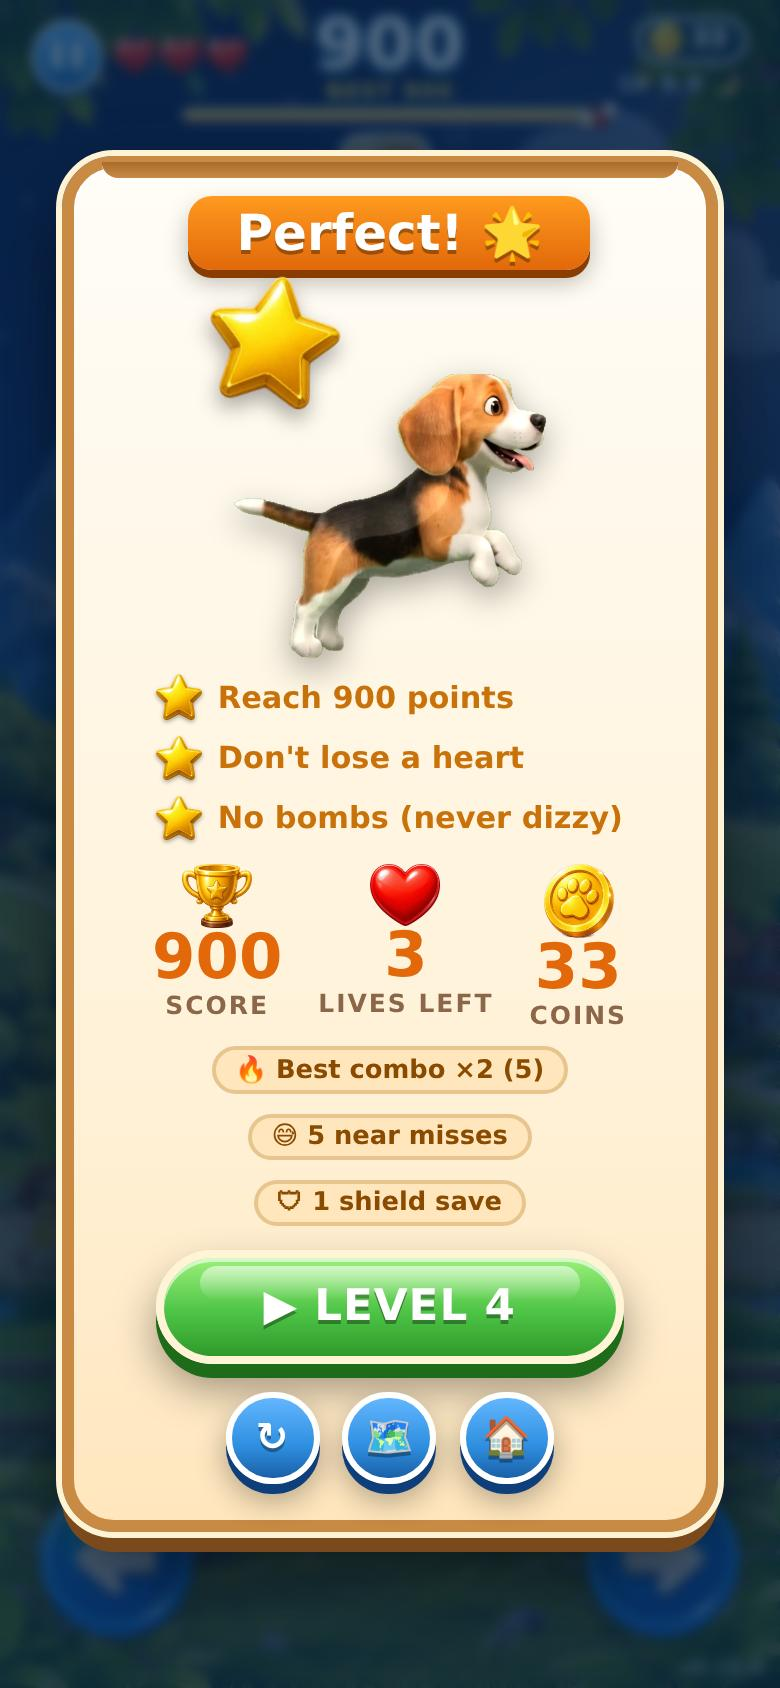
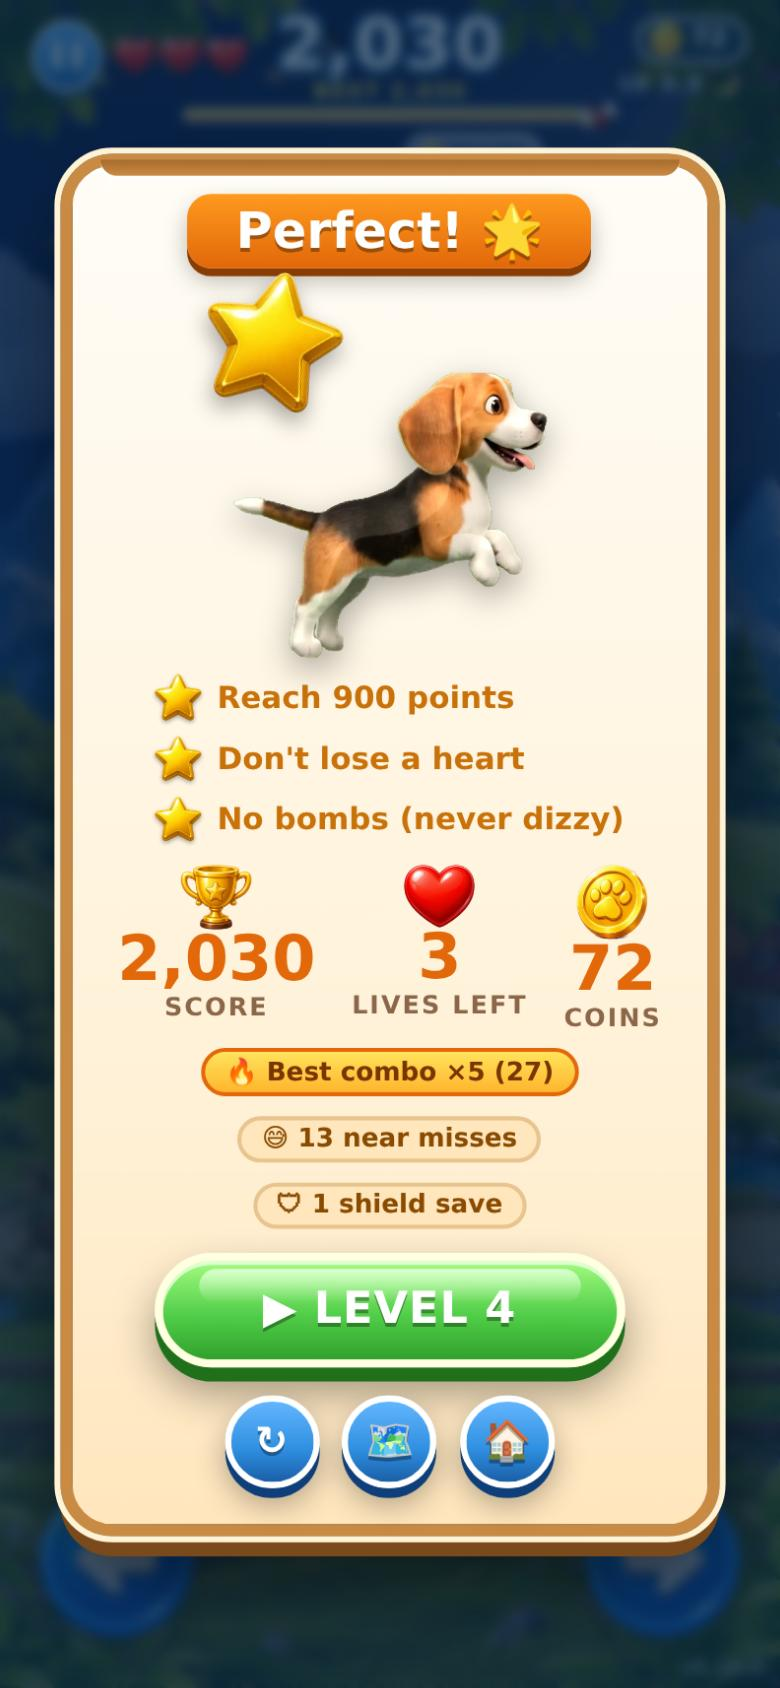
v0.16.1 — fix: carried score no longer shortens later levels; adaptive render quality (perf tiers), HUD writes only on change, cached vignette

Changed region(s): [[0.0615, 0.0, 0.9538, 0.9242], [0.6154, 0.2156, 0.7077, 0.2773]]

diff --git a/src/game/background.js b/src/game/background.js
@@ -13,7 +13,8 @@
 const BG = (() => {
   const canvas = document.getElementById('bg');
   const ctx = canvas.getContext('2d');
-  const DPR = Math.min(window.devicePixelRatio || 1, 2);
+  const DPR_CAP = [1, 1.5, 2];                                      // per quality tier (Perf)
+  let DPR = Math.min(window.devicePixelRatio || 1, DPR_CAP[Perf.tier]);
 
   const THEMES = {
     meadow: {
@@ -76,6 +77,7 @@ const BG = (() => {
   const clouds = [], leaves = [];
 
   function resize() {
+    DPR = Math.min(window.devicePixelRatio || 1, DPR_CAP[Perf.tier]);
     const r = canvas.getBoundingClientRect();
     W = Math.round(r.width); H = Math.round(r.height);
     canvas.width = W * DPR; canvas.height = H * DPR;
@@ -131,6 +133,7 @@ const BG = (() => {
   const WATER = { ALPHA: .55, SPEED: .05, GLINTS: 16 };
   const wc = document.createElement('canvas'), wctx = wc.getContext('2d');
   let glints = null;
+  const vig = { k: '', g: null };                                   // cached vignette gradient
   function drawWater(L, dx, dy, t) {
     const mask = img(L.water); if (!mask || BG._noWater) return;
     const im = img(L.key), over = (L.width || 1) * (1.04 + .12 * L.depth), w = W * over, h = w * im.height / im.width;
@@ -142,7 +145,7 @@ const BG = (() => {
       mask._bb = { x: minx / c.width, y: miny / c.height, w: (maxx - minx) / c.width, h: (maxy - miny) / c.height }; }
     const bb = mask._bb, bx = x0 + bb.x * w, by = y0 + bb.y * h, bw = bb.w * w, bh = bb.h * h;
     if (bw < 4 || bh < 4) return;
-    const S = Math.min(2, DPR), cw = Math.ceil(bw * S), chh = Math.ceil(bh * S);
+    const S = Math.min(Perf.tier >= 2 ? 2 : 1, DPR), cw = Math.ceil(bw * S), chh = Math.ceil(bh * S);
     if (wc.width !== cw || wc.height !== chh) { wc.width = cw; wc.height = chh; }
     if (!glints) glints = Array.from({ length: WATER.GLINTS }, () => ({ x: Math.random(), y: Math.random(), ph: Math.random() * 6.28, sp: .6 + Math.random() * .8, s: .6 + Math.random() * .8 }));
     const g = wctx; g.setTransform(S, 0, 0, S, 0, 0); g.clearRect(0, 0, bw, bh);
@@ -228,18 +231,19 @@ const BG = (() => {
     let birdsDrawn = false;
     for (const L of theme.layers) if (!L.front && !L.mid) {
       drawCover(img(L.key), -px * AMP * L.depth, -py * AMP * L.depth * .5, L.depth, L.bottom, L.width);
-      if (L.water) drawWater(L, -px * AMP * L.depth, -py * AMP * L.depth * .5, t);
+      if (L.water && Perf.tier > 0) drawWater(L, -px * AMP * L.depth, -py * AMP * L.depth * .5, t);
       if (ambient && !birdsDrawn && L.key === (theme.birdsAfter || 'mountains')) { Ambient.drawSky(ctx, t, px * AMP); birdsDrawn = true; }
     }
     if (ambient && !birdsDrawn) Ambient.drawSky(ctx, t, px * AMP);
 
+    if (Perf.tier > 0) {                                                       // god rays — the priciest blend on the screen, lite tier skips them
     ctx.save(); ctx.globalCompositeOperation = 'screen'; ctx.globalAlpha = (.10 + Math.sin(t * .8) * .03) * TC.sunA * (TC.moon ? .4 : 1);
     for (let i = 0; i < 4; i++) {
       ctx.save(); ctx.translate(sx, sy); ctx.rotate(-.55 - i * .14 + Math.sin(t * .2 + i) * .03);
       const rg = ctx.createLinearGradient(0, 0, 0, H * 1.2); rg.addColorStop(0, '#fff'); rg.addColorStop(1, 'rgba(255,255,255,0)');
       ctx.fillStyle = rg; ctx.beginPath(); ctx.moveTo(-8, 0); ctx.lineTo(8, 0); ctx.lineTo(W * .16, H * 1.2); ctx.lineTo(-W * .16, H * 1.2); ctx.closePath(); ctx.fill(); ctx.restore();
     }
-    ctx.restore();
+    ctx.restore(); }
 
     for (const L of theme.layers) if (L.mid) drawCover(img(L.key), -px * AMP * L.depth, -py * AMP * L.depth * .5, L.depth, L.bottom, L.width);
     if (ambient) Ambient.drawRoad(ctx, t, px * AMP);
@@ -263,7 +267,7 @@ const BG = (() => {
     }
     // --- time-of-day grade: multiply tint (shadows go blue at night / grey in rain) + soft warm glow (evening) ---
     if (TC.tint[3] > .01) { ctx.save(); ctx.globalCompositeOperation = 'multiply'; ctx.fillStyle = `rgba(${TC.tint[0] | 0},${TC.tint[1] | 0},${TC.tint[2] | 0},${TC.tint[3].toFixed(3)})`; ctx.fillRect(0, 0, W, H); ctx.restore(); }
-    if (TC.glow[3] > .01) { ctx.save(); ctx.globalCompositeOperation = 'soft-light'; ctx.fillStyle = `rgba(${TC.glow[0] | 0},${TC.glow[1] | 0},${TC.glow[2] | 0},${TC.glow[3].toFixed(3)})`; ctx.fillRect(0, 0, W, H); ctx.restore(); }
+    if (TC.glow[3] > .01 && Perf.tier >= 2) { ctx.save(); ctx.globalCompositeOperation = 'soft-light'; ctx.fillStyle = `rgba(${TC.glow[0] | 0},${TC.glow[1] | 0},${TC.glow[2] | 0},${TC.glow[3].toFixed(3)})`; ctx.fillRect(0, 0, W, H); ctx.restore(); }
     if (TC.moonA > .02) {                                                     // a little lantern light around the puppy so he stays readable at night
       const lx = hooks.lightX != null ? hooks.lightX : W / 2, ly = H * CONFIG.PUPPY.GROUND_Y - H * .06;
       const lg = ctx.createRadialGradient(lx, ly, 0, lx, ly, W * .38); lg.addColorStop(0, `rgba(255,225,160,${(.22 * TC.moonA).toFixed(3)})`); lg.addColorStop(1, 'rgba(255,225,160,0)');
@@ -275,12 +279,13 @@ const BG = (() => {
       for (const d of rain) { d.y += d.v * dt; d.x += slant * dt * (d.v / H); if (d.y > H + 20) { d.y = -20 - Math.random() * 40; d.x = Math.random() * (W + 80) - 40; } ctx.moveTo(d.x, d.y); ctx.lineTo(d.x - slant * .03, d.y - d.l); }
       ctx.stroke(); ctx.restore();
     }
-    const v = ctx.createRadialGradient(W / 2, H / 2, H * .35, W / 2, H / 2, H * .85);
-    v.addColorStop(0, 'rgba(0,0,0,0)'); v.addColorStop(1, `rgba(10,30,60,${(.35 + TC.tint[3] * .25).toFixed(3)})`); ctx.fillStyle = v; ctx.fillRect(0, 0, W, H);
+    const va = (.35 + TC.tint[3] * .25).toFixed(2), vk = `${W}x${H}:${va}`;
+    if (vig.k !== vk) { const v = ctx.createRadialGradient(W / 2, H / 2, H * .35, W / 2, H / 2, H * .85); v.addColorStop(0, 'rgba(0,0,0,0)'); v.addColorStop(1, `rgba(10,30,60,${va})`); vig.k = vk; vig.g = v; }
+    ctx.fillStyle = vig.g; ctx.fillRect(0, 0, W, H);
   }
 
   return {
-    init() { resize(); initClouds(); window.addEventListener('resize', resize); enableTilt(); document.addEventListener('pointerdown', enableTilt, { once: true }); },
+    init() { resize(); initClouds(); window.addEventListener('resize', resize); Events.on('perf:tier', resize); enableTilt(); document.addEventListener('pointerdown', enableTilt, { once: true }); },
     draw, ctx,
     get W() { return W; }, get H() { return H; },
     setAmp(v) { amp = v; }, setTilt(v) { tiltEnabled = v; },

diff --git a/index.html b/index.html
@@ -5,7 +5,7 @@
 <meta name="viewport" content="width=device-width, initial-scale=1.0, maximum-scale=1.0, user-scalable=no, viewport-fit=cover">
 <meta name="theme-color" content="#2f8fe0">
 <title>BONK! — Catch. Dodge. Don't get bonked.</title>
-<link rel="stylesheet" href="styles/main.css?v=0.16.0">
+<link rel="stylesheet" href="styles/main.css?v=0.16.1">
 </head>
 <body>
 <div id="backdrop"></div>
@@ -161,39 +161,40 @@
 
 <!-- Load order = dependency order (plain <script>, no bundler). Layers: core → services → data → game → ui → scenes → app -->
 <!-- core: engine-agnostic plumbing -->
-<script src="src/core/config.js?v=0.16.0"></script>
-<script src="src/core/events.js?v=0.16.0"></script>
-<script src="src/core/dom.js?v=0.16.0"></script>
-<script src="src/core/assets.js?v=0.16.0"></script>
-<script src="src/core/input.js?v=0.16.0"></script>
+<script src="src/core/config.js?v=0.16.1"></script>
+<script src="src/core/events.js?v=0.16.1"></script>
+<script src="src/core/perf.js?v=0.16.1"></script>
+<script src="src/core/dom.js?v=0.16.1"></script>
+<script src="src/core/assets.js?v=0.16.1"></script>
+<script src="src/core/input.js?v=0.16.1"></script>
 <!-- services: persistence, economy, telemetry, backend -->
-<script src="src/services/flags.js?v=0.16.0"></script>
-<script src="src/services/analytics.js?v=0.16.0"></script>
-<script src="src/services/save.js?v=0.16.0"></script>
-<script src="src/services/wallet.js?v=0.16.0"></script>
-<script src="src/services/store.js?v=0.16.0"></script>
-<script src="src/services/leaderboard.js?v=0.16.0"></script>
+<script src="src/services/flags.js?v=0.16.1"></script>
+<script src="src/services/analytics.js?v=0.16.1"></script>
+<script src="src/services/save.js?v=0.16.1"></script>
+<script src="src/services/wallet.js?v=0.16.1"></script>
+<script src="src/services/store.js?v=0.16.1"></script>
+<script src="src/services/leaderboard.js?v=0.16.1"></script>
 <!-- audio -->
-<script src="src/audio/sfx.js?v=0.16.0"></script>
+<script src="src/audio/sfx.js?v=0.16.1"></script>
 <!-- data: catalogues + level loader -->
-<script src="src/data/items.js?v=0.16.0"></script>
-<script src="src/data/goals.js?v=0.16.0"></script>
-<script src="src/data/levels.js?v=0.16.0"></script>
+<script src="src/data/items.js?v=0.16.1"></script>
+<script src="src/data/goals.js?v=0.16.1"></script>
+<script src="src/data/levels.js?v=0.16.1"></script>
 <!-- game: simulation + rendering -->
-<script src="src/game/background.js?v=0.16.0"></script>
-<script src="src/game/ambient.js?v=0.16.0"></script>
-<script src="src/game/effects.js?v=0.16.0"></script>
-<script src="src/game/puppy.js?v=0.16.0"></script>
-<script src="src/game/mechanics.js?v=0.16.0"></script>
-<script src="src/game/spawner.js?v=0.16.0"></script>
-<script src="src/game/game.js?v=0.16.0"></script>
-<script src="src/game/ftue.js?v=0.16.0"></script>
+<script src="src/game/background.js?v=0.16.1"></script>
+<script src="src/game/ambient.js?v=0.16.1"></script>
+<script src="src/game/effects.js?v=0.16.1"></script>
+<script src="src/game/puppy.js?v=0.16.1"></script>
+<script src="src/game/mechanics.js?v=0.16.1"></script>
+<script src="src/game/spawner.js?v=0.16.1"></script>
+<script src="src/game/game.js?v=0.16.1"></script>
+<script src="src/game/ftue.js?v=0.16.1"></script>
 <!-- ui + scenes -->
-<script src="src/ui/hud.js?v=0.16.0"></script>
-<script src="src/ui/modals.js?v=0.16.0"></script>
-<script src="src/scenes/home.js?v=0.16.0"></script>
-<script src="src/scenes/play.js?v=0.16.0"></script>
+<script src="src/ui/hud.js?v=0.16.1"></script>
+<script src="src/ui/modals.js?v=0.16.1"></script>
+<script src="src/scenes/home.js?v=0.16.1"></script>
+<script src="src/scenes/play.js?v=0.16.1"></script>
 <!-- bootstrap -->
-<script src="src/app.js?v=0.16.0"></script>
+<script src="src/app.js?v=0.16.1"></script>
 </body>
 </html>

diff --git a/src/game/game.js b/src/game/game.js
@@ -13,7 +13,8 @@ const Game = (() => {
     const L = getLevel(levelIdx);
     return {
       level: L, levelIdx, time: 0,
-      score: carry ? carry.score : 0, coins: carry ? carry.coins : 0, bones: carry ? carry.bones : 0,
+      score: carry ? carry.score : 0, base: carry ? carry.score : 0,   // score = run total (best/leaderboard); base = what was carried in → level progress = score - base
+      coins: carry ? carry.coins : 0, bones: carry ? carry.bones : 0,
       lives: carry ? carry.lives : L.hearts, mult: 1, powers: { magnet: 0, star: 0, shield: 0 },
       combo: { n: 0, mult: 1, best: 0, bestMult: 1 }, nearMisses: 0, shieldSaves: 0, nearCd: 0,
       spawner: new Spawner(L), cleared: false, over: false, lastHit: null,
@@ -72,10 +73,10 @@ const Game = (() => {
     Mechanics.update(dt, S);
     S.spawner.update(dt, S.time, puppy, S.powers, onCatch, onMiss, onNear, onDodge);
     FX.update(dt);
-    hooks.onHUD && hooks.onHUD(S);
-    if (!S.cleared && S.score >= S.level.target) { S.cleared = true; onLevelClear(); }
+    const ls = S.score - S.base;                                   // this level's own score — carried score never shortens a level
+    if (!S.cleared && ls >= S.level.target) { S.cleared = true; onLevelClear(); }
     else if (!S.cleared) {
-      const n = S.level.stages.length, u = S.score / S.level.target * n, want = Math.min(n - 1, Math.floor(u)); if (want > S.stage) advanceStage(want);
+      const n = S.level.stages.length, u = ls / S.level.target * n, want = Math.min(n - 1, Math.floor(u)); if (want > S.stage) advanceStage(want);
       // live weather: during act i the light drifts from act i's grade toward act i+1's (starts drifting after 35 % of the act)
       const st = S.level.stages, i = S.stage, k = Math.max(0, (u - i - .35) / .65);
       BG.setTimeBlend(st[i].time, st[Math.min(n - 1, i + 1)].time, i < n - 1 ? k : 0);
@@ -154,7 +155,7 @@ const Game = (() => {
   function endRun(result) {
     if (!S || S.ended) return; S.ended = true;
     const duration = Math.round((performance.now() - S.startedAt) / 1000);
-    Analytics.track('level_end', { id: S.level.id, result, score: S.score, stars: S.stars || Goals.stars(S), starsN: (S.stars || []).filter(Boolean).length, coins: S.coins, bones: S.bones, duration, heartsLost: S.heartsLost || 0, comboBest: S.combo.best, comboMult: S.combo.bestMult, nearMisses: S.nearMisses, shieldSaves: S.shieldSaves });
+    Analytics.track('level_end', { id: S.level.id, result, score: S.score, stars: S.stars || Goals.stars(S), starsN: (S.stars || []).filter(Boolean).length, coins: S.coins, bones: S.bones, duration, heartsLost: S.heartsLost || 0, comboBest: S.combo.best, comboMult: S.combo.bestMult, nearMisses: S.nearMisses, shieldSaves: S.shieldSaves, q: Perf.tier });
     Store.bumpStat(result === 'win' ? 'wins' : result === 'lose' ? 'losses' : 'quits'); Store.bumpStat('bones', S.bones); Store.bumpStat('playSec', duration);
   }
 
@@ -167,5 +168,7 @@ const Game = (() => {
     resume() { paused = false; if (cdResume) { const r = cdResume; cdResume = null; r(); } },
     stop() { if (S && !S.ended && !S.over) { Analytics.track('quit', { id: S.level.id, at: Math.round(S.time), score: S.score }); endRun('quit'); } running = false; paused = false; S = null; clearTimeout(cdTimer); cdTimer = null; cdResume = null; FX.clear(); hooks.onCountdown && hooks.onCountdown(null); },
     get active() { return running; }, get inProgress() { return !!S && !S.over; }, get paused() { return paused; }, get state() { return S; }, get puppy() { return puppy; }, stageIcon, stageLabel,
+    /** 0..1 progress of the current level (per-level score / target). */
+    progress(S) { return S.cleared ? 1 : Math.min(1, (S.score - S.base) / S.level.target); },
   };
 })();

diff --git a/src/ui/hud.js b/src/ui/hud.js
@@ -9,7 +9,7 @@ const HUD = (() => {
   let comboKey = '';
   let zones = null, zoneW = 0;
   let goalState = '';
-  let lastPower = '', lastScore = -1;
+  let lastPower = '', lastScore = -1, lastCoins = -1, lastProg = '', lastLevel = '';
 
   function hearts(S, animLost) {
     el.hearts.innerHTML = '';
@@ -19,11 +19,11 @@ const HUD = (() => {
     }
   }
   function update(S) {
-    el.score.textContent = S.score.toLocaleString(); el.coins.textContent = S.coins.toLocaleString();
-    el.best.textContent = Math.max(S.score, Store.best()).toLocaleString();
-    el.level.textContent = `LV ${Game.stageLabel(S)} ${Game.stageIcon(S)}`;
-    if (S.score !== lastScore) { lastScore = S.score; restartAnimation(el.score, 'bump'); }
-    el.progress.style.width = (S.cleared ? 100 : Math.min(100, S.score / S.level.target * 100)) + '%';
+    // DOM writes only on change — this runs every rendered frame and layout/style work is what stutters low-end phones
+    if (S.score !== lastScore) { lastScore = S.score; el.score.textContent = S.score.toLocaleString(); el.best.textContent = Math.max(S.score, Store.best()).toLocaleString(); restartAnimation(el.score, 'bump'); }
+    if (S.coins !== lastCoins) { lastCoins = S.coins; el.coins.textContent = S.coins.toLocaleString(); }
+    const lv = `LV ${Game.stageLabel(S)} ${Game.stageIcon(S)}`; if (lv !== lastLevel) { lastLevel = lv; el.level.textContent = lv; }
+    const pw = (Game.progress(S) * 100).toFixed(1) + '%'; if (pw !== lastProg) { lastProg = pw; el.progress.style.width = pw; }
     let html = '';
     for (const k in S.powers) if (S.powers[k] > 0) { const P = POWERS[k];
       html += k === 'shield' ? `<div class="power shield"><img src="${Assets.url('shield')}">🛡</div>`
@@ -61,7 +61,7 @@ const HUD = (() => {
   }
   function reset(S) {
     comboKey = ''; el.combo.classList.remove('on', 'max', 'pulse'); combo(S);
-    hearts(S); el.hint.style.opacity = (S && S.levelIdx > 0) || !Store.ftueDone() ? 0 : 1; lastPower = null; goalState = ''; zones = null;
+    hearts(S); el.hint.style.opacity = (S && S.levelIdx > 0) || !Store.ftueDone() ? 0 : 1; lastPower = null; lastScore = -1; lastCoins = -1; lastProg = ''; lastLevel = ''; goalState = ''; zones = null;
     el.chip.classList.remove('done', 'failed', 'hide'); el.chip.style.display = S.goal ? '' : 'none';
     if (S.goal) { el.goalText.textContent = Goals.short(S.level); el.chip.title = Goals.label(S.level); el.chip.querySelector('img').src = Assets.url('star_grey'); el.goalBar.style.width = '0%'; }
     update(S);

diff --git a/src/core/perf.js b/src/core/perf.js
@@ -1,0 +1,35 @@
+/**
+ * BONK! — Adaptive render quality
+ * ---------------------------------------------------------------
+ * Watches real frame times and steps the quality tier DOWN when the device
+ * can't hold ~50 fps, UP again when it has headroom for a while.
+ *
+ *   tier 2  full      – DPR ≤ 2, water ripples, god rays, soft-light glow, vignette
+ *   tier 1  balanced  – DPR ≤ 1.5, water at half res, rays every other frame
+ *   tier 0  lite      – DPR 1, no water/rays/soft-light, grade as one multiply
+ *
+ * Override for QA / user setting: ?q=0|1|2 or Perf.lock(tier). Emits 'perf:tier'.
+ * Never touches simulation — only how the picture is drawn.
+ */
+const Perf = (() => {
+  const MAX = 2;
+  let tier = MAX, locked = null, samples = [], slow = 0, fast = 0, lastChange = 0;
+  try { const q = new URLSearchParams(location.search).get('q'); if (q !== null && q !== '' && !isNaN(+q)) locked = Math.max(0, Math.min(MAX, +q | 0)); } catch (e) {}
+  // heuristic head start: very low-end devices (≤ 2 cores or ≤ 2 GB) begin one tier down instead of discovering it mid-run
+  try { if (locked == null && ((navigator.hardwareConcurrency || 8) <= 2 || (navigator.deviceMemory || 8) <= 2)) tier = 1; } catch (e) {}
+
+  const setTier = t => { t = Math.max(0, Math.min(MAX, t)); if (t === tier) return; tier = t; lastChange = performance.now(); slow = fast = 0; Events.emit('perf:tier', { tier }); };
+
+  /** Feed one rendered frame's wall time (ms). Called from the main loop. */
+  function frame(ms) {
+    if (locked != null) { if (tier !== locked) setTier(locked); return; }
+    if (ms > 200) return;                                  // tab switch / GC monster: ignore
+    samples.push(ms); if (samples.length < 60) return;    // decide per ~1 s of frames
+    samples.sort((a, b) => a - b); const med = samples[30], p90 = samples[54]; samples = [];
+    if (performance.now() - lastChange < 3000) return;    // let a change settle
+    if (med > 22 || p90 > 34) { fast = 0; if (++slow >= 2) setTier(tier - 1); }        // ~2 s of <45 fps → step down
+    else if (med < 12 && p90 < 18) { slow = 0; if (++fast >= 15) setTier(tier + 1); }  // ~15 s of comfortable 60+ → step up
+    else slow = fast = 0;
+  }
+  return { frame, get tier() { return tier; }, get locked() { return locked; }, lock(t) { locked = t == null ? null : t; if (locked != null) setTier(locked); }, MAX };
+})();

diff --git a/src/ui/modals.js b/src/ui/modals.js
@@ -18,7 +18,7 @@ const Modals = (() => {
     $('#oScore').textContent = S.score.toLocaleString(); $('#oBones').textContent = S.bones; $('#oCoins').textContent = S.coins;
     $('#overBadge').innerHTML = S.isNewBest ? '<span class="newbest">🏆 NEW BEST!</span>' : '';
     $('#overPose').src = Assets.url(S.lastHit === 'bonk' ? 'puppy_bonk' : 'puppy_dizzy');
-    $('#oExtra').innerHTML = extras(S) + `<span>🎯 ${Math.min(100, Math.round(S.score / S.level.target * 100))}% of ${S.level.target.toLocaleString()}</span>`;
+    $('#oExtra').innerHTML = extras(S) + `<span>🎯 ${Math.round(Game.progress(S) * 100)}% of ${S.level.target.toLocaleString()}</span>`;
     open('#modalOver');
   }
   const extras = S => {

diff --git a/src/scenes/play.js b/src/scenes/play.js
@@ -40,5 +40,5 @@ const PlayScene = (() => {
   return { bind,
     enter(levelIdx) { BG.setAmp(CONFIG.PARALLAX.GAME_AMP); Game.start(levelIdx); FTUE.start(levelIdx); },
     exit() { Game.stop(); FTUE.stop(); },
-    frame(now, dt, simOnly, renderDt) { if (dt > 0) { Game.update(dt); FTUE.update(dt); } if (!simOnly) BG.draw(now, renderDt || 1 / 60, { overlay: (c, t) => Game.draw(c, t), lightX: Game.puppy.box.cx }); } };
+    frame(now, dt, simOnly, renderDt) { if (dt > 0) { Game.update(dt); FTUE.update(dt); } if (!simOnly) { if (Game.state) HUD.update(Game.state); BG.draw(now, renderDt || 1 / 60, { overlay: (c, t) => Game.draw(c, t), lightX: Game.puppy.box.cx }); } } };
 })();

diff --git a/src/app.js b/src/app.js
@@ -56,6 +56,7 @@
     const scene = SCENES[current].obj;
     let steps = 0; while (acc >= STEP && steps < 12) { scene.frame(now, STEP, /*simOnly*/ true); acc -= STEP; steps++; }
     scene.frame(now, 0, /*simOnly*/ false, dtReal);         // render once (background/ambient use real frame dt)
+    Perf.frame(performance.now() - now);                    // adaptive quality: how long did this frame take us?
     requestAnimationFrame(frame);
   }
 

diff --git a/styles/main.css b/styles/main.css
@@ -1,5 +1,5 @@
 /* BONK! — stylesheet entry point (import order matters; ?v= tags are kept in sync by tools/bump.py) */
-@import url("base.css?v=0.16.0");
-@import url("home.css?v=0.16.0");
-@import url("hud.css?v=0.16.0");
-@import url("modals.css?v=0.16.0");
+@import url("base.css?v=0.16.1");
+@import url("home.css?v=0.16.1");
+@import url("hud.css?v=0.16.1");
+@import url("modals.css?v=0.16.1");

diff --git a/src/core/config.js b/src/core/config.js
@@ -6,7 +6,7 @@
  * Item definitions live in src/data/items.js
  */
 const CONFIG = Object.freeze({
-  VERSION: '0.16.0',
+  VERSION: '0.16.1',
   STORAGE_PREFIX: 'bonk_',
 
   /** Player (puppy) */

diff --git a/docs/CHANGELOG.md b/docs/CHANGELOG.md
@@ -2,6 +2,25 @@
 
 All notable changes to BONK! are documented here. Format follows [Keep a Changelog](https://keepachangelog.com/).
 
+## [0.16.1] — 2026-09-08 — Lag fix (adaptive quality) · "Continue" carry-over bug
+### Fixed
+- **Levels after a "▶ LEVEL n" continue were finishing instantly.** The carried run score counted toward the next
+  level's target, so by level 3–5 you'd arrive already past it (L5 cleared in 1 s at act 5.1, no acts, no play).
+  Level progress is now `score − carried-in score` (`S.base`); the run total is still what the HUD, best and
+  leaderboard show. Verified: L1→L5 in one continue chain now take 23 / 39 / 34 / 42 / 47 s with all 3 acts.
+- **Lag.** Profiling (390×844 @2×, 2-core sandbox) showed ~55 ms frames: the puppy's i-frame `shadowBlur` glow,
+  water ripples, god rays, the soft-light grade and the vignette gradient dominate, and the HUD rewrote the DOM 120×/s.
+  - New `src/core/perf.js` — **adaptive quality tiers**. Frame time is measured every second; 2 s under ~45 fps steps
+    down a tier, 15 s of comfortable 60 fps steps back up. Tier 2 = everything · tier 1 = DPR ≤ 1.5, half-res water,
+    no soft-light · tier 0 = DPR 1, no water/rays/soft-light. Devices with ≤ 2 cores or ≤ 2 GB start at tier 1.
+    QA override `?q=0|1|2`. Level-end analytics carry `q`.
+  - HUD updates once per rendered frame (not per 120 Hz physics step) and only writes DOM nodes whose value changed.
+  - Vignette gradient is cached instead of rebuilt every frame.
+  - Measured on the sandbox: 57 ms (tier 2) → 32 ms (tier 1) → 17 ms (tier 0) per frame; auto mode settles at tier 0 in
+    ~4 s and stays at 60 fps. The picture at tier 0 is visually the same game (see docs/screenshots/perf_lite.png).
+### Verified
+- `tools/check.py` PASS · `tools/sim_play.py` 25/25 · zero console errors.
+
 ## [0.16.0] — 2026-09-07 — 4 locations × 4 levels · acts labelled 1.1 / 1.2 / 1.3 · live weather drift · length curve
 ### Added
 - **Beach** location (L13–16, `assets/images/bg/beach_far/beach_mid.webp`: sea + lighthouse, umbrella, sandcastle,

diff --git a/README.md b/README.md
@@ -3,7 +3,7 @@
 A polished 2D catch-and-dodge mobile web game with a Pixar-style parallax world.
 Move the puppy left/right, catch bones and coins, grab power-ups, and dodge falling rocks and bombs.
 
-**Version:** 0.16.0 · **Stack:** vanilla HTML5 Canvas + JS + CSS (no build step, no dependencies)
+**Version:** 0.16.1 · **Stack:** vanilla HTML5 Canvas + JS + CSS (no build step, no dependencies)
 
 ![BONK! gameplay](docs/screenshots/00_overview.jpg)
 
@@ -46,6 +46,7 @@ bonk/
 │   ├── core/                  # engine plumbing (knows nothing about puppies)
 │   │   ├── config.js          #   VERSION + all tunables (puppy physics, combo, near-miss, leaderboard)
 │   │   ├── events.js          #   tiny pub/sub  Events.on / emit
+│   │   ├── perf.js            #   adaptive render quality (tiers 0–2 from measured frame time; ?q= override)
 │   │   ├── dom.js             #   $, $$, restartAnimation
 │   │   ├── assets.js          #   image manifest + loader → Assets.img('key') / Assets.url('key')
 │   │   └── input.js           #   touch buttons + drag + keyboard → Input.left / right / drag
